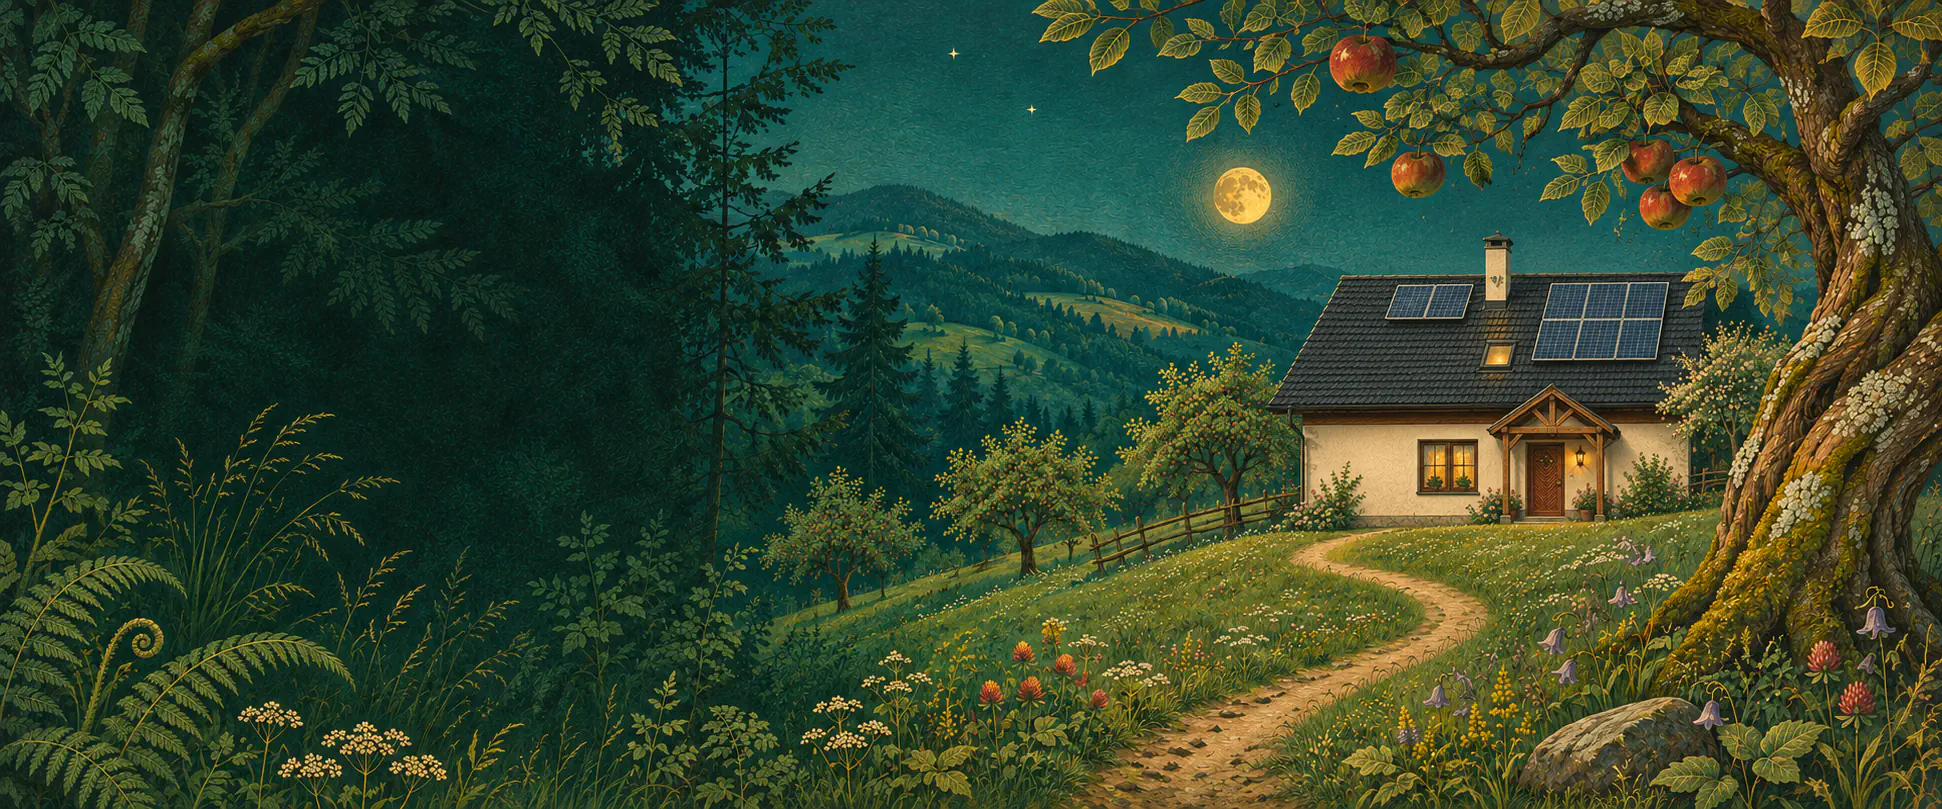
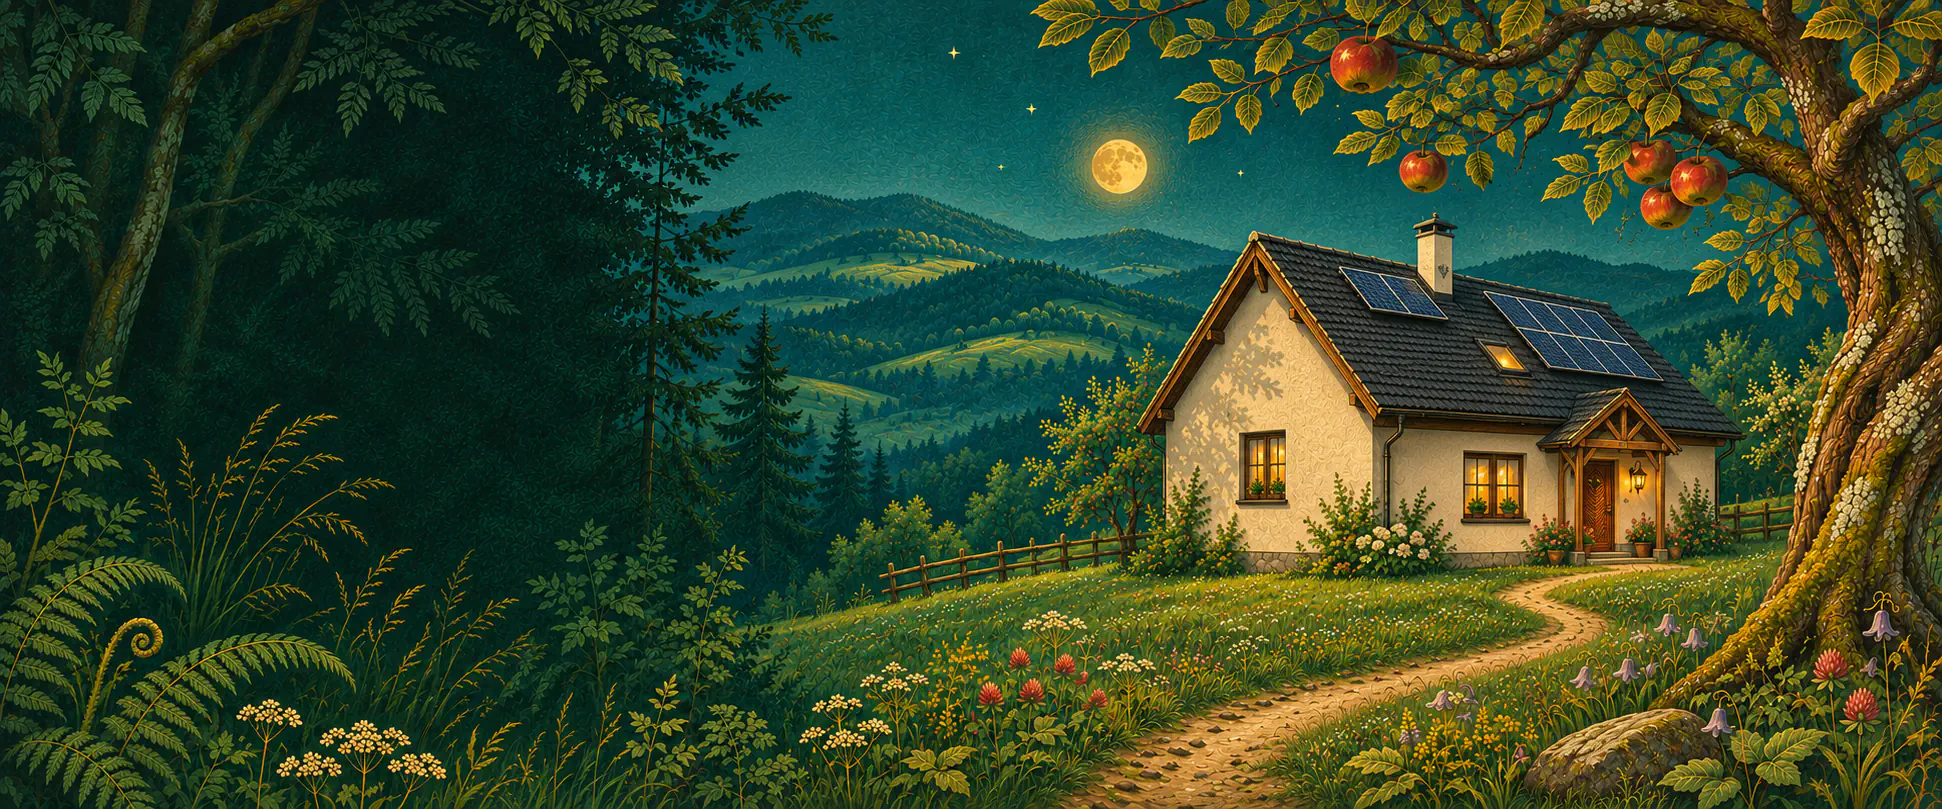
Reimagine cover house from an oblique mountain-facing view

diff --git a/versions/2026-11-04-orchard-tales/index.html b/versions/2026-11-04-orchard-tales/index.html
@@ -118,7 +118,7 @@
           width="1942"
           height="809"
           fetchpriority="high"
-          alt="Księżyc nad sadem. Ścieżka wśród jabłoni prowadzi do jasnego domu z ciemnym dachem i światłem w oknach."
+          alt="Jasny dom widziany od narożnika, z ciemnym dachem i światłem w oknach. W tle górskie grzbiety i księżyc."
         />
       </picture>
       <header class="masthead shell">

diff --git a/.repota/done/reimagine-cover-house-angle.md b/.repota/done/reimagine-cover-house-angle.md
@@ -1,0 +1,7 @@
+# Reimagine the cover house angle
+
+Piotr approved the revised second illustration and requested a different angle of the same house on the cover, with the mountain panorama behind it. Revise only the cover artwork in `versions/2026-11-04-orchard-tales/` using built-in ImageGen. Use a front-left oblique view with a visible side wall and diagonal roof perspective, retaining recognizable architecture, moonlit fairytale style, mountains and dark space for the cover text. Export all three existing responsive sizes and verify the house is visible in the phone crop.
+
+## Done
+
+Codex generated a new cover from the front-left corner using the existing cover and approved chapter illustration as references. The visible gable-end wall and diagonal roof create a distinct view of the house, with mountain ridges behind it. All three WebP exports were checked at their existing dimensions, including visual inspection of the 640×545 phone crop. Updated the cover alt text to describe the angle and mountains.
